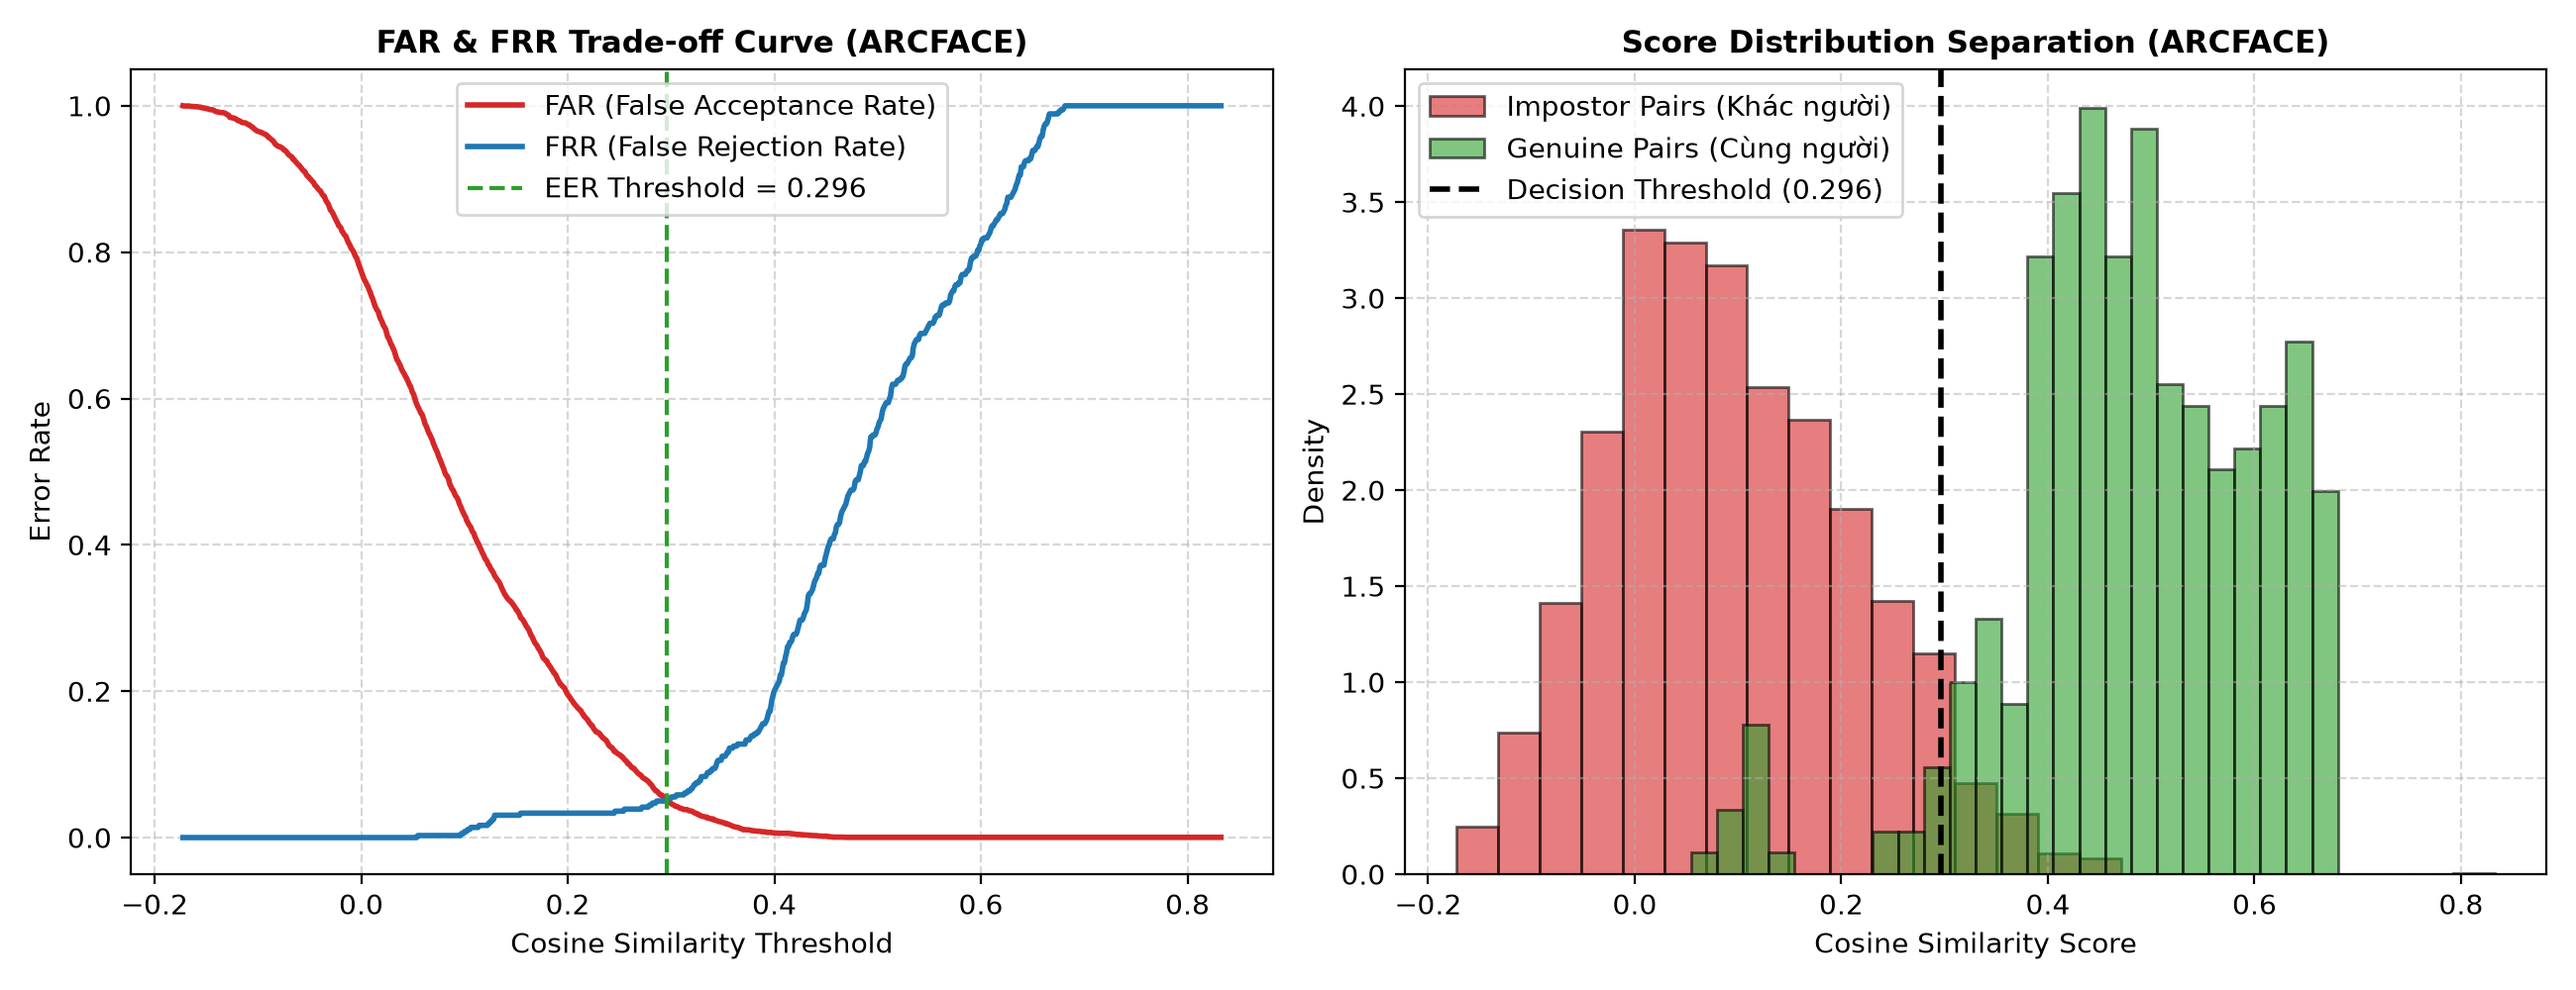
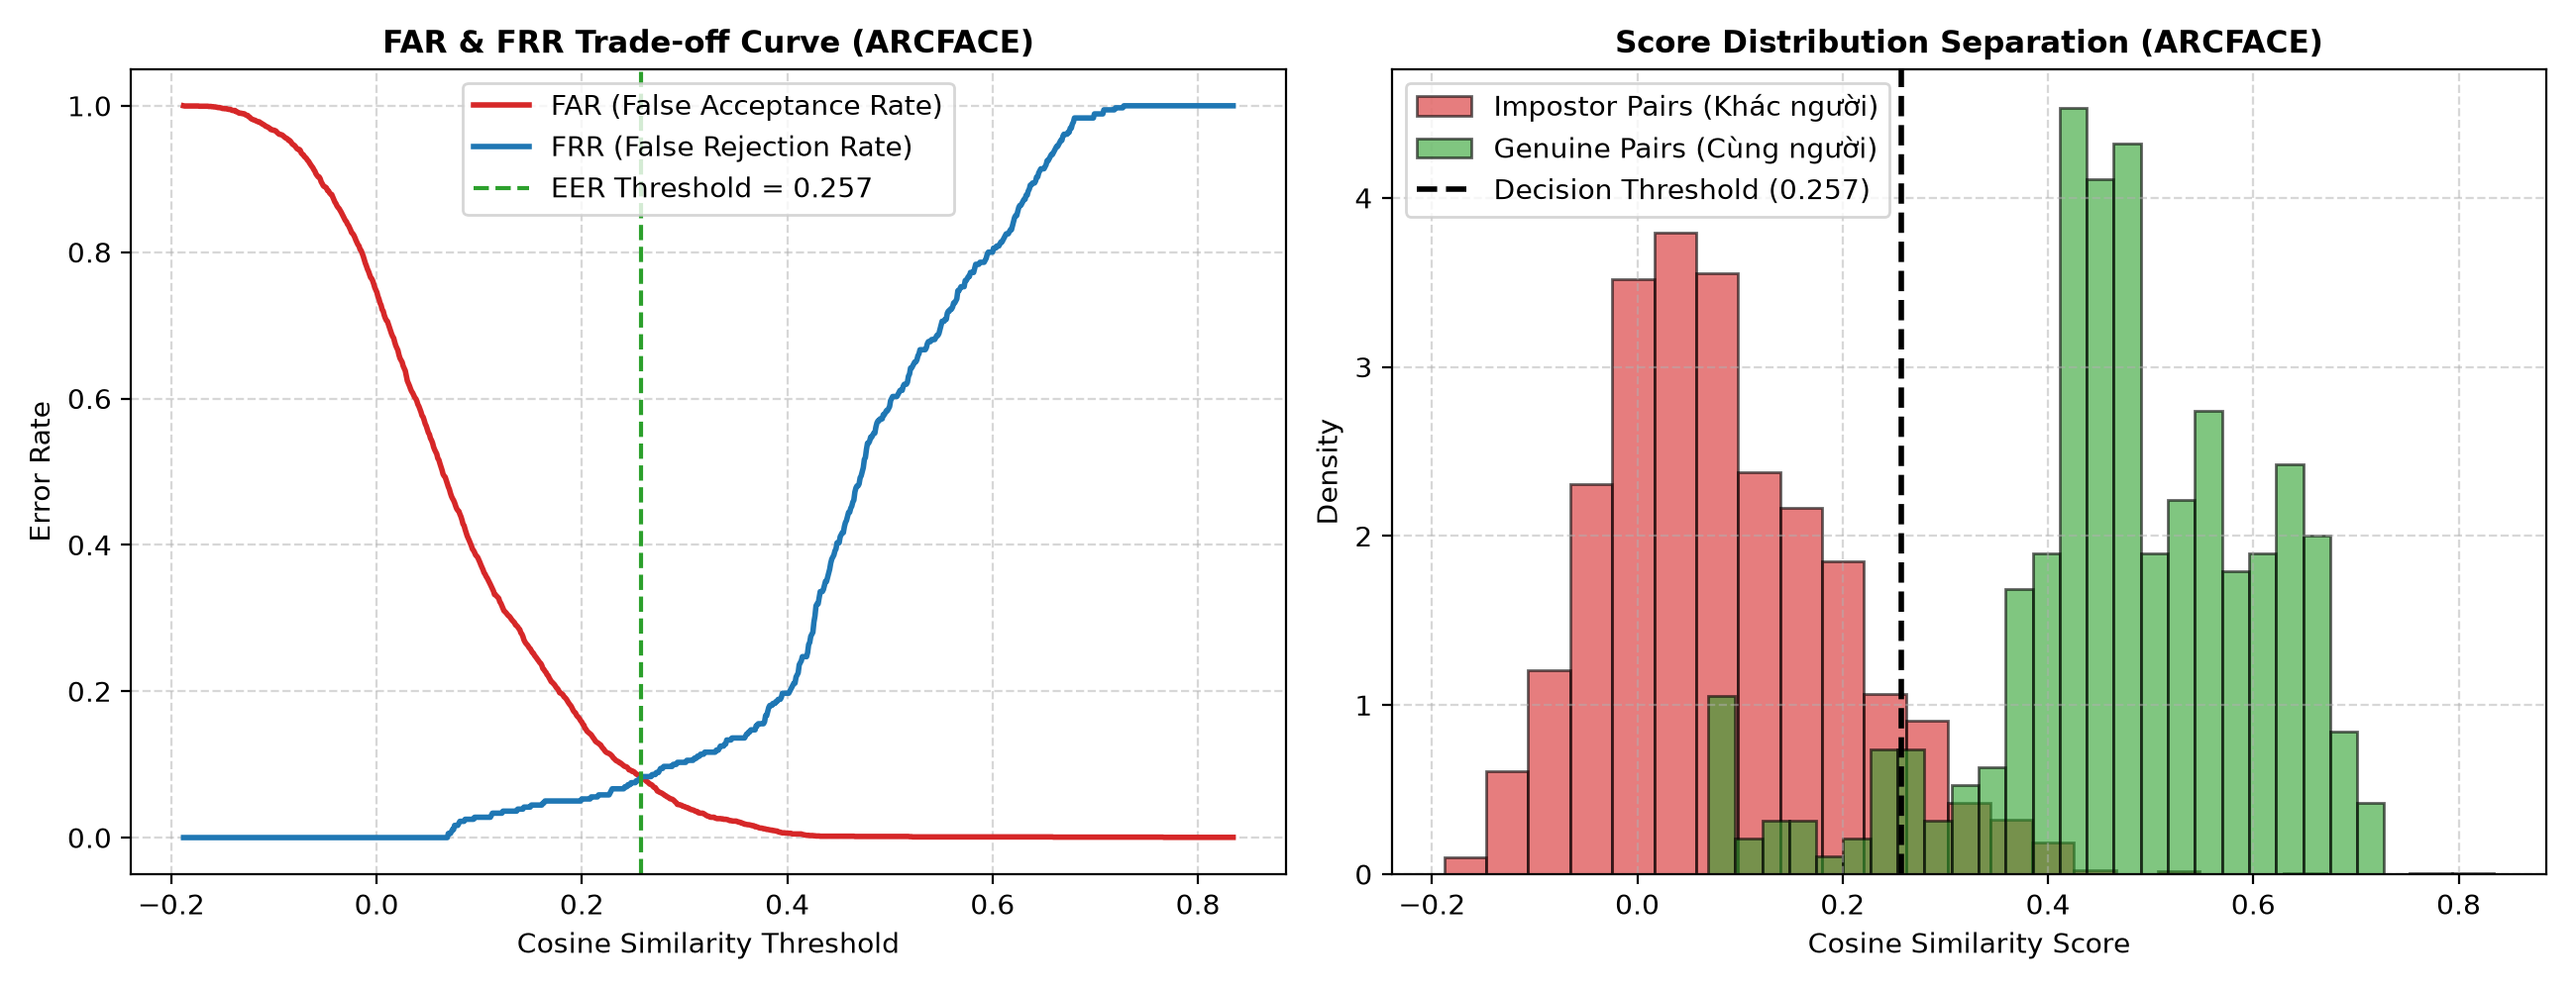
Update report

diff --git a/outputs/report/benchmark_results_report.md b/outputs/report/benchmark_results_report.md
@@ -8,11 +8,11 @@ Báo cáo đo đạc hiệu năng thực tế trên toàn bộ tập dữ liệu
 
 | Detector | Tốc độ (FPS) | Độ trễ Thuần (ms) | CPU (%) | RAM TB (MB) | Peak RAM (MB) |
 |---|---|---|---|---|---|
-| **mediapipe** | **99.49** | 10.05 ms | 252.0% | 494.2 MB | 494.2 MB |
-| **retinaface** | **2.62** | 381.59 ms | 167.1% | 665.5 MB | 665.7 MB |
-| **yolov8** | **6.09** | 164.31 ms | 277.1% | 608.9 MB | 615.1 MB |
+| **mediapipe** | **60.88** | 16.43 ms | 100.8% | 496.1 MB | 496.9 MB |
+| **retinaface** | **2.65** | 377.69 ms | 176.8% | 664.1 MB | 664.3 MB |
+| **yolov8** | **8.81** | 113.48 ms | 330.3% | 608.9 MB | 610.0 MB |
 
-🏆 **Best Performance Detector:** `mediapipe` (Tốc độ 99.5 FPS, nhẹ nhất trên Edge CPU).
+🏆 **Best Performance Detector:** `mediapipe` (Tốc độ 60.9 FPS, nhẹ nhất trên Edge CPU).
 
 ---
 
@@ -20,11 +20,11 @@ Báo cáo đo đạc hiệu năng thực tế trên toàn bộ tập dữ liệu
 
 | Embedder | Vector Dim | Tốc độ (FPS) | Độ trễ Thuần (ms) | CPU (%) | RAM TB (MB) | Peak RAM (MB) |
 |---|---|---|---|---|---|---|
-| **arcface** | 512-D | **6.01** | 166.41 ms | 227.3% | 909.6 MB | 909.6 MB |
-| **facenet512** | 512-D | **28.88** | 34.63 ms | 245.2% | 812.1 MB | 812.1 MB |
-| **sface** | 128-D | **18.86** | 53.02 ms | 210.8% | 706.0 MB | 706.0 MB |
+| **arcface** | 512-D | **8.20** | 121.96 ms | 317.8% | 779.8 MB | 779.8 MB |
+| **facenet512** | 512-D | **40.70** | 24.57 ms | 381.7% | 717.7 MB | 717.7 MB |
+| **sface** | 128-D | **20.00** | 50.00 ms | 279.4% | 672.1 MB | 672.1 MB |
 
-🏆 **Best Performance Embedder:** `facenet512` (Độ trễ chỉ 34.63 ms, tối ưu Edge).
+🏆 **Best Performance Embedder:** `facenet512` (Độ trễ chỉ 24.57 ms, tối ưu Edge).
 
 ---
 
@@ -32,11 +32,11 @@ Báo cáo đo đạc hiệu năng thực tế trên toàn bộ tập dữ liệu
 
 | Tổ Hợp Model | Ngưỡng $T^*$ | Sim Điểm Danh TB | Nhận Diện Đúng (%) | Sim Người Lạ TB | Từ Chối Đúng (%) | Latency E2E (ms) | FPS E2E |
 |---|---|---|---|---|---|---|---|
-| **mediapipe + arcface** | `0.3` | **0.5311** | **100.0%** | 0.2615 | **60.0%** | 192.02 ms | **5.21 FPS** |
-| **mediapipe + facenet512** | `0.52` | **0.6884** | **90.0%** | 0.3676 | **70.0%** | 113.79 ms | **8.79 FPS** |
-| **mediapipe + sface** | `0.36` | **0.5156** | **60.0%** | 0.4199 | **10.0%** | 69.64 ms | **14.36 FPS** |
-| **retinaface + facenet512** | `0.52` | **0.7363** | **100.0%** | 0.3760 | **70.0%** | 381.54 ms | **2.62 FPS** |
-| **yolov8 + facenet512** | `0.52` | **0.7237** | **90.0%** | 0.3765 | **90.0%** | 308.02 ms | **3.25 FPS** |
+| **mediapipe + arcface** | `0.26` | **0.5439** | **100.0%** | 0.2578 | **50.0%** | 130.08 ms | **7.69 FPS** |
+| **mediapipe + facenet512** | `0.52` | **0.6825** | **90.0%** | 0.3649 | **70.0%** | 69.09 ms | **14.47 FPS** |
+| **mediapipe + sface** | `0.34` | **0.5166** | **60.0%** | 0.4129 | **10.0%** | 94.73 ms | **10.56 FPS** |
+| **retinaface + facenet512** | `0.52` | **0.7327** | **90.0%** | 0.3694 | **80.0%** | 523.57 ms | **1.91 FPS** |
+| **yolov8 + facenet512** | `0.52` | **0.7330** | **90.0%** | 0.3651 | **80.0%** | 275.72 ms | **3.63 FPS** |
 
 ### Biểu đồ phân tích hiệu năng độ trễ:
 - [Biểu đồ so sánh độ trễ Latency & FPS](../figures/benchmark_charts/pipeline_benchmark_comparison.png)

diff --git a/outputs/report/threshold_calibration_report.md b/outputs/report/threshold_calibration_report.md
@@ -10,24 +10,24 @@ Báo cáo kiểm thử định lượng độ chính xác sinh trắc học trê
 
 | Model Embedder | Vector Dim | Mean Genuine | Min Genuine | Mean Impostor | Max Impostor | Separation Margin $\Delta$ | EER (%) | ROC AUC | Ngưỡng Khuyến Nghị $T^*$ |
 |---|---|---|---|---|---|---|---|---|---|
-| **arcface** | 512-D | 0.4818 | **0.0546** | 0.0941 | **0.8323** | **-0.7777** | **5.20%** | **0.9812** | **`0.296`** |
-| **facenet512** | 512-D | 0.6815 | **0.4338** | 0.1553 | **0.6312** | **-0.1974** | **3.81%** | **0.9951** | **`0.516`** |
-| **sface** | 128-D | 0.4513 | **0.126** | 0.2786 | **0.5833** | **-0.4573** | **25.25%** | **0.8351** | **`0.357`** |
+| **arcface** | 512-D | 0.4725 | **0.0689** | 0.0805 | **0.8342** | **-0.7653** | **8.16%** | **0.9733** | **`0.257`** |
+| **facenet512** | 512-D | 0.6806 | **0.3941** | 0.1455 | **0.6104** | **-0.2163** | **3.81%** | **0.9947** | **`0.517`** |
+| **sface** | 128-D | 0.4266 | **0.0808** | 0.2579 | **0.5991** | **-0.5183** | **26.42%** | **0.8119** | **`0.336`** |
 ---
 
 ## 2. Phân Tích Đường Cong Lỗi FAR/FRR & Phân Bố Điểm Số
 
 ### Mô Hình Embedder: `ARCFACE`
 - [Đồ thị FAR/FRR Trade-off & Score Distribution](../figures/roc_curves/roc_far_frr_arcface.png)
-- **Nhận xét:** Ngưỡng tối ưu $T^*$ tại điểm cân bằng EER là `0.296`.
+- **Nhận xét:** Ngưỡng tối ưu $T^*$ tại điểm cân bằng EER là `0.257`.
 
 ### Mô Hình Embedder: `FACENET512`
 - [Đồ thị FAR/FRR Trade-off & Score Distribution](../figures/roc_curves/roc_far_frr_facenet512.png)
-- **Nhận xét:** Ngưỡng tối ưu $T^*$ tại điểm cân bằng EER là `0.516`.
+- **Nhận xét:** Ngưỡng tối ưu $T^*$ tại điểm cân bằng EER là `0.517`.
 
 ### Mô Hình Embedder: `SFACE`
 - [Đồ thị FAR/FRR Trade-off & Score Distribution](../figures/roc_curves/roc_far_frr_sface.png)
-- **Nhận xét:** Ngưỡng tối ưu $T^*$ tại điểm cân bằng EER là `0.357`.
+- **Nhận xét:** Ngưỡng tối ưu $T^*$ tại điểm cân bằng EER là `0.336`.
 
 ---
 
@@ -36,7 +36,7 @@ Báo cáo kiểm thử định lượng độ chính xác sinh trắc học trê
 Dựa trên kết quả thực nghiệm mới nhất, cấu hình ngưỡng tối ưu cho các mô hình:
 ```yaml
 thresholds:
-  arcface: 0.296
-  facenet512: 0.516
-  sface: 0.357
+  arcface: 0.257
+  facenet512: 0.517
+  sface: 0.336
 ```

diff --git a/outputs/report/quantization_report.md b/outputs/report/quantization_report.md
@@ -1,16 +1,15 @@
 # Báo Cáo Thực Nghiệm Lượng Tử Hóa Mô Hình (Edge INT8 Quantization)
 
-
-## Bảng Tổng Hợp Kết Quả Đo Đạc Đối Đầu (FP32 vs INT8)
+ Bảng Tổng Hợp Kết Quả Đo Đạc Đối Đầu (FP32 vs INT8)
 
 | Mô Hình | FP32 Size (MB) | INT8 Size (MB) | Tỷ Lệ Nén (%) | FP32 Latency (ms) | INT8 Latency (ms) | Tăng Tốc (Speedup) | Cosine Drift (Sim FP32/INT8) |
 |---|---|---|---|---|---|---|---|
-| **ArcFace (ResNet50)** | 130.24 MB | **32.9 MB** | **-74.74%** | 69.85 ms | **81.8 ms** | **0.85x** | **0.9833** (Min: 0.9511) |
-| **FaceNet512** | 89.63 MB | **23.42 MB** | **-73.87%** | 31.11 ms | **31.43 ms** | **0.99x** | **0.9979** (Min: 0.9953) |
+| **ArcFace (ResNet50)** | 130.24 MB | **32.9 MB** | **-74.74%** | 101.64 ms | **145.78 ms** | **0.7x** | **0.9833** (Min: 0.9511) |
+| **FaceNet512** | 89.63 MB | **23.42 MB** | **-73.87%** | 49.98 ms | **36.79 ms** | **1.36x** | **0.9979** (Min: 0.9953) |
 
 ## Biểu Đồ So Sánh
 
 ![So Sánh Lượng Tử Hóa](../figures/benchmark_charts/quantization_comparison.png)
 
 ---
-*Báo cáo được tạo tự động vào lúc 2026-08-21 16:14:59*
+*Báo cáo được tạo tự động vào lúc 2026-08-21 22:57:01*
